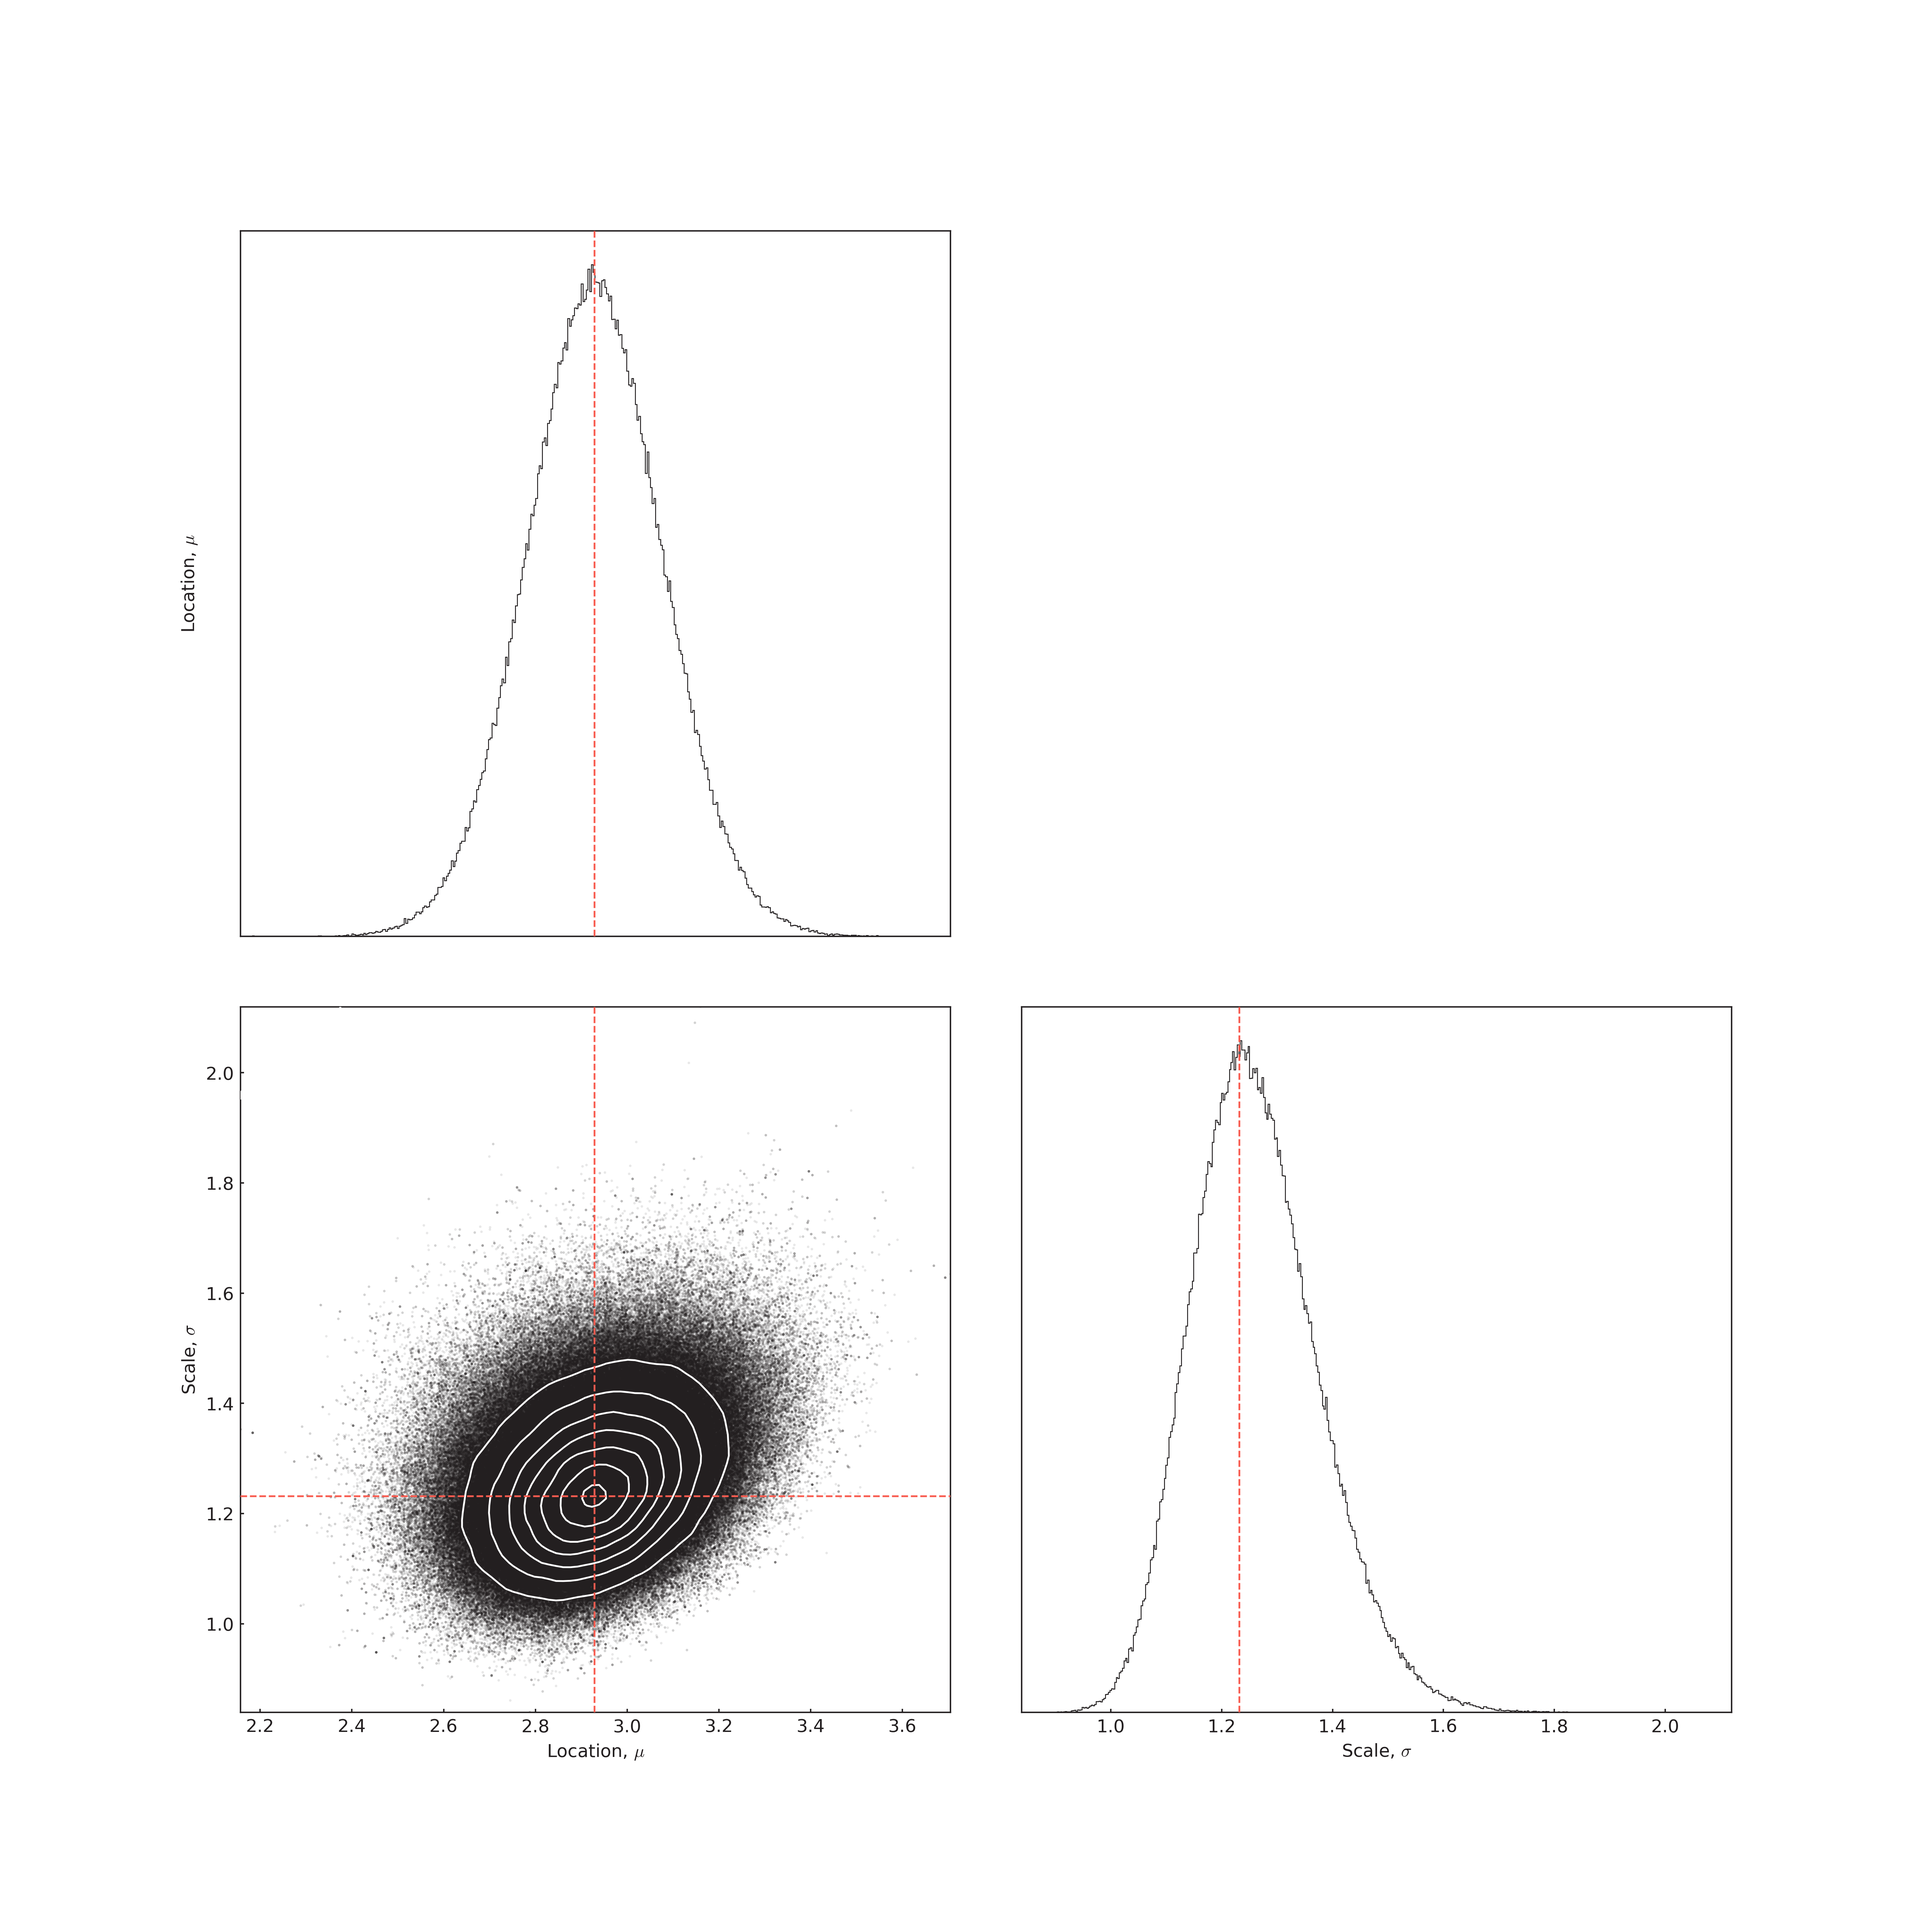
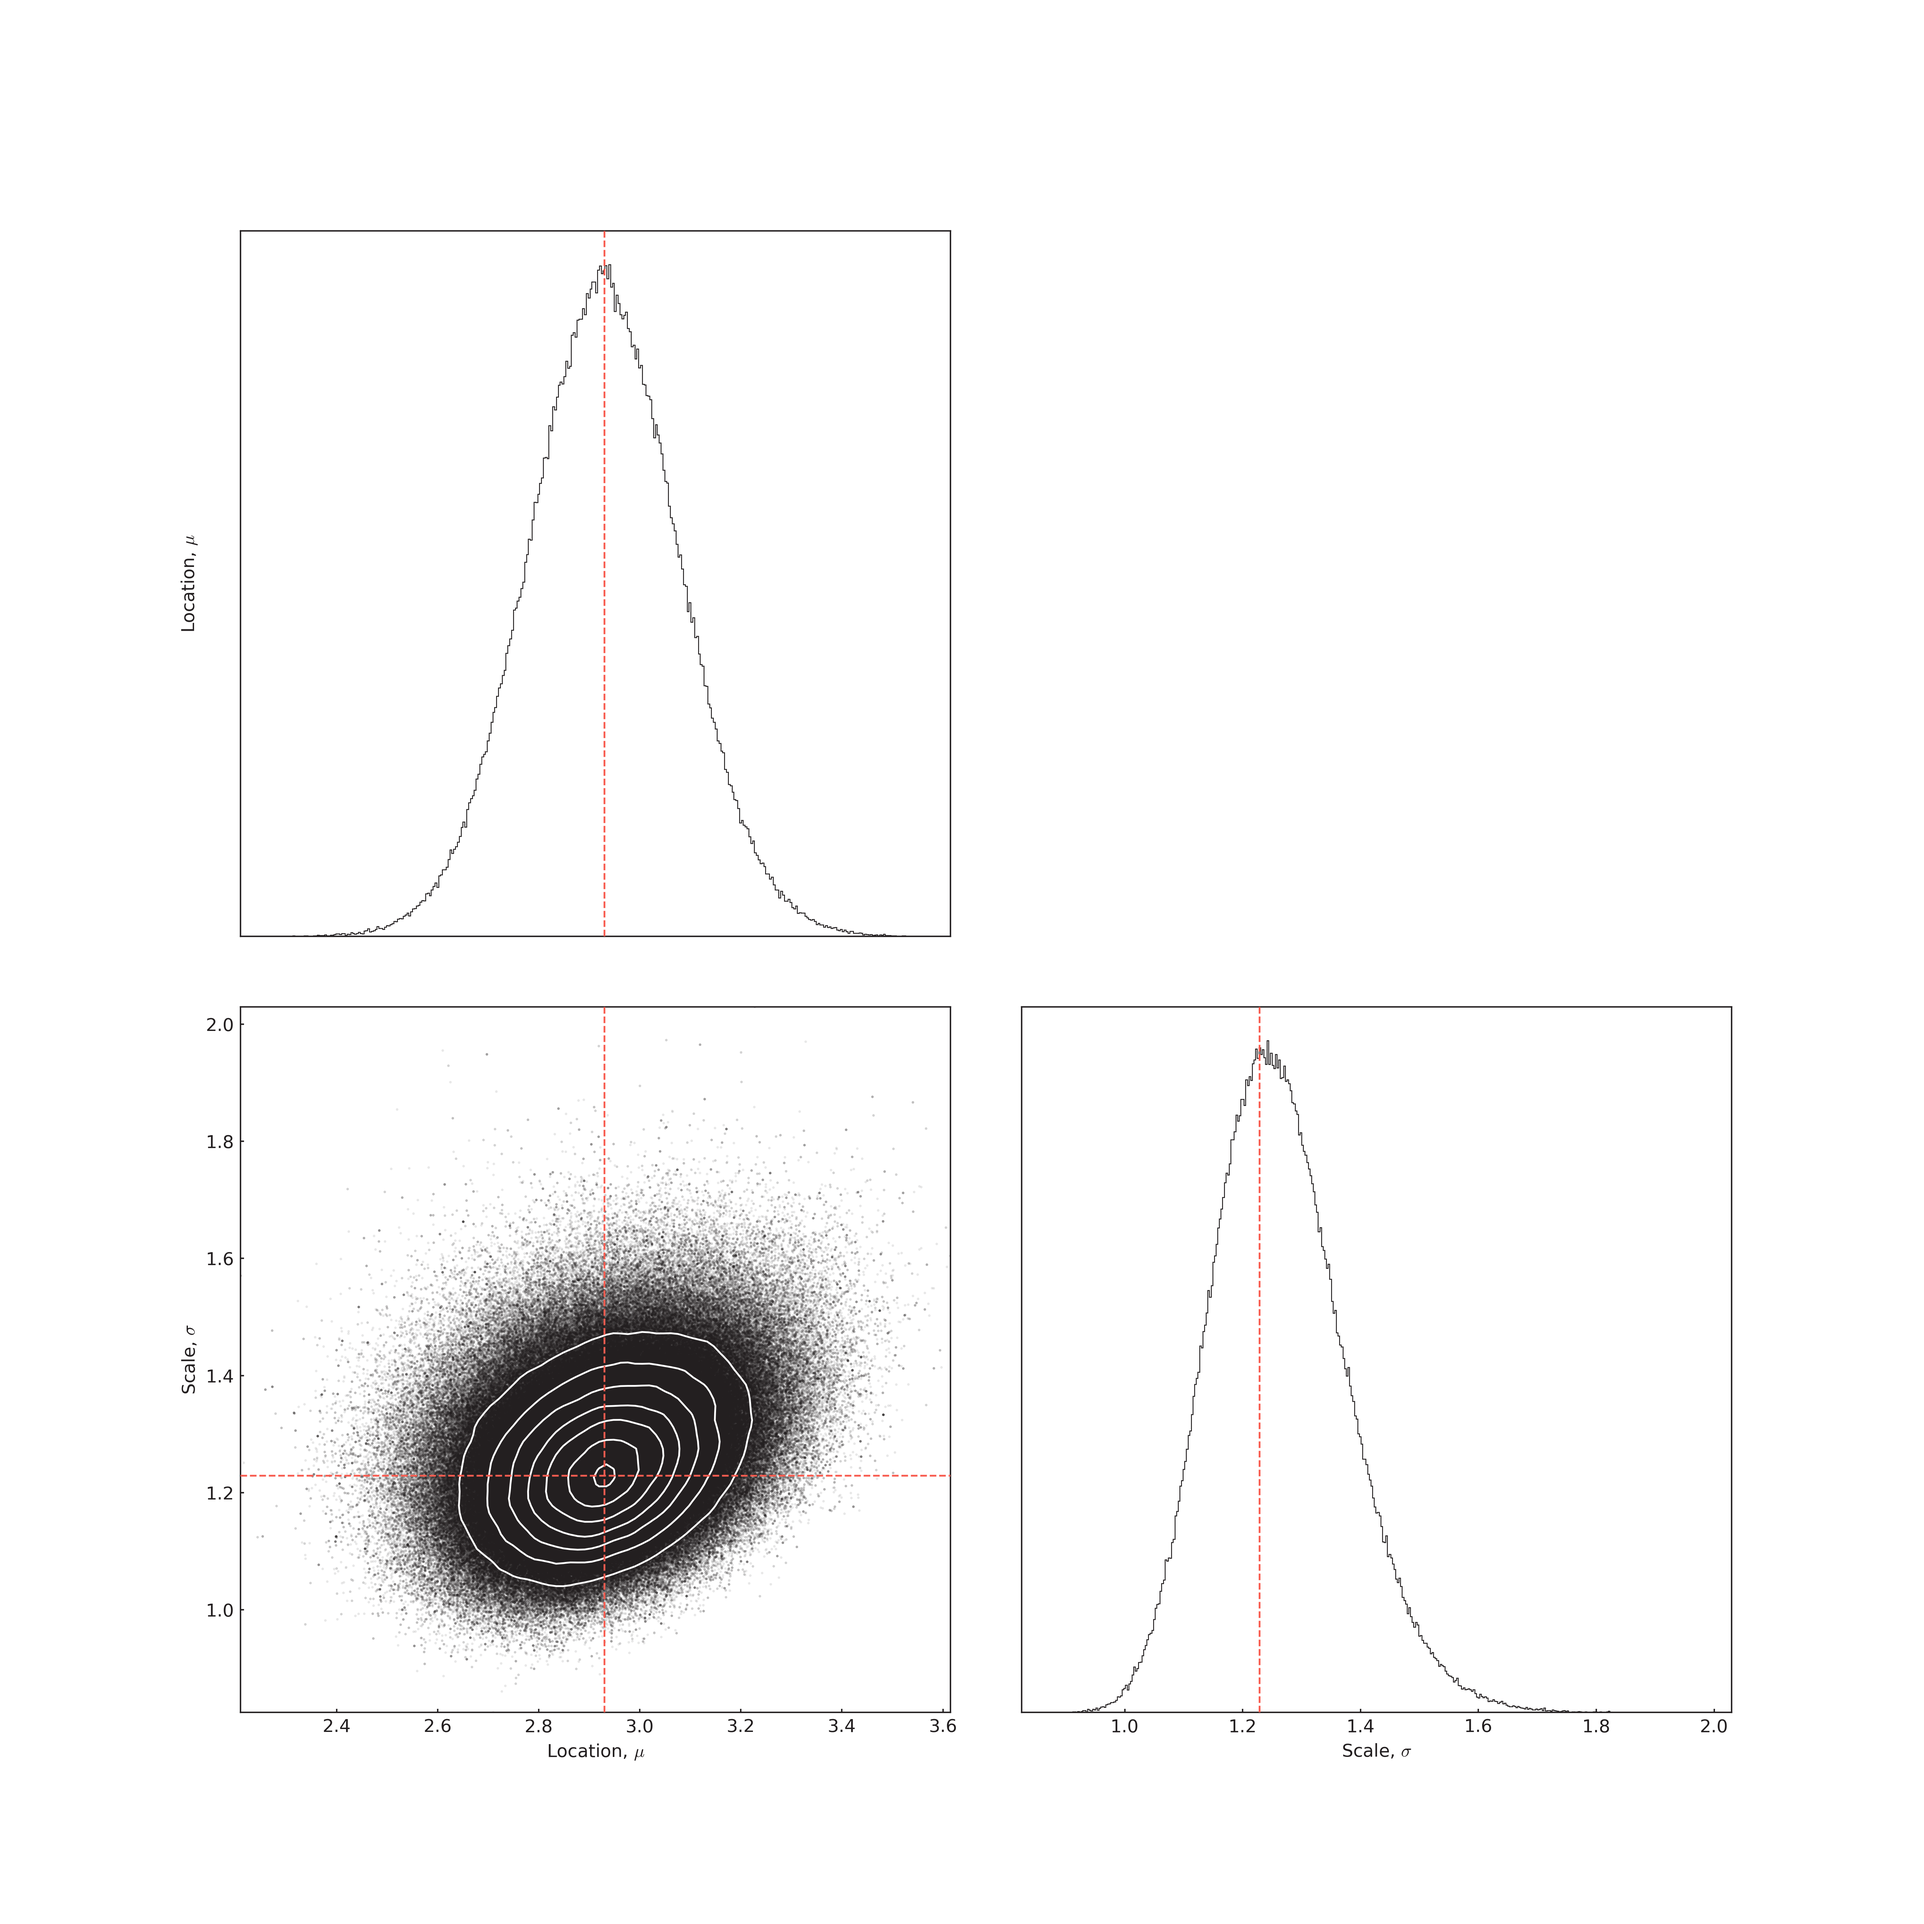
add license

Changed region(s): [[0.1558, 0.6233, 0.4675, 0.8727], [0.748, 0.8727, 0.7792, 0.9038], [0.561, 0.8727, 0.5922, 0.9038]]

diff --git a/README.md b/README.md
@@ -1,0 +1,108 @@
+# Supplementary Materials for "Towards Statistical Modeling of Chlorophyll-a Concentrations in Balikpapan Bay, Indonesia: Implications for Algal Bloom Detection"
+
+[![DOI](https://img.shields.io/badge/DOI-10.1088%2F2515--7620%2Fae4680-blue)](https://doi.org/10.1088/2515-7620/ae4680)
+[![License: MIT](https://img.shields.io/badge/License-MIT-yellow.svg)](https://opensource.org/licenses/MIT)
+[![No Maintenance Intended](https://unmaintained.tech/badge.svg)](https://unmaintained.tech/)
+[![Python 3.9+](https://img.shields.io/badge/python-3.9%2B-blue.svg)](https://www.python.org/downloads/)
+[![NumPy](https://img.shields.io/badge/numpy-%23013243.svg?logo=numpy&logoColor=white)](https://numpy.org/)
+[![Pandas](https://img.shields.io/badge/pandas-%23150458.svg?logo=pandas&logoColor=white)](https://pandas.pydata.org/)
+[![Matplotlib](https://img.shields.io/badge/matplotlib-%23ffffff.svg?logo=matplotlib&logoColor=black)](https://matplotlib.org/)
+[![SciPy](https://img.shields.io/badge/scipy-%230C55A5.svg?logo=scipy&logoColor=white)](https://scipy.org/)
+[![scikit-learn](https://img.shields.io/badge/scikit--learn-%23F7931E.svg?logo=scikit-learn&logoColor=white)](https://scikit-learn.org/)
+[![AutoGluon](https://img.shields.io/badge/AutoGluon-tabular-orange)](https://auto.gluon.ai/)
+[![PyGMT](https://img.shields.io/badge/PyGMT-mapping-green)](https://www.pygmt.org/)
+[![statsmodels](https://img.shields.io/badge/statsmodels-statistics-brightgreen)](https://www.statsmodels.org/)
+[![pyextremes](https://img.shields.io/badge/pyextremes-EVA-red)](https://georgebv.github.io/pyextremes/)
+[![emcee](https://img.shields.io/badge/emcee-MCMC-blueviolet)](https://emcee.readthedocs.io/)
+[![Seaborn](https://img.shields.io/badge/seaborn-visualization-9cf)](https://seaborn.pydata.org/)
+
+This repository contains the processed data and Python scripts accompanying the following peer-reviewed publication:
+
+> Anwar, I. P., Herho, S. H. S., Khadami, F., Putri, M. R., & Syahrial, S. C. (2026). Towards statistical modeling of chlorophyll-a concentrations in Balikpapan Bay, Indonesia: Implications for algal bloom detection. *Environmental Research Communications*. https://doi.org/10.1088/2515-7620/ae4680
+
+## Repository Structure
+
+```
+.
+├── data/
+│   └── data.csv                  # Daily multivariate oceanographic dataset (2019-2021)
+├── script/
+│   ├── study_area_map.py         # Study area map generation (Figure 1)
+│   ├── eda.py                    # Exploratory data analysis (Figures 2-5)
+│   ├── autogluon_ml.py           # AutoGluon ensemble regression (Tables 1-2)
+│   └── extreme_value_analysis.py # Block maxima extreme value analysis (Figures 6-7)
+├── LICENSE
+└── README.md
+```
+
+## Data
+
+The dataset comprises 1,096 daily observations from January 1, 2019 to December 31, 2021, with the following variables:
+
+| Variable | Description | Source |
+|---|---|---|
+| Chlorophyll-a | Ocean color reanalysis (mg/m3) | CMEMS OCEANCOLOUR_GLO_BGC_L4_MY_009_104 |
+| Temperature | Sea surface temperature | HAMSOM |
+| Salinity | Sea surface salinity | HAMSOM |
+| Nitrate | Surface nitrate concentration | CMEMS GLOBAL_ANALYSISFORECAST_BGC_001_028 |
+| Phosphate | Surface phosphate concentration | CMEMS GLOBAL_ANALYSISFORECAST_BGC_001_028 |
+| Silicate | Surface silicate concentration | CMEMS GLOBAL_ANALYSISFORECAST_BGC_001_028 |
+| Dissolved Oxygen | Surface dissolved oxygen | CMEMS GLOBAL_ANALYSISFORECAST_BGC_001_028 |
+| River Discharge | Total river discharge | GloFAS-ERA5 |
+| Solar Radiation | Daily accumulated solar radiation | ERA5 |
+| Rainfall | Daily precipitation | BMKG Sepinggan Station |
+
+## Scripts
+
+**`study_area_map.py`** -- Generates a PyGMT relief map of the Indonesian Maritime Continent with Balikpapan Bay (116.71 E, 0.97 S) indicated. Outputs `fig1.png`.
+
+**`eda.py`** -- Performs exploratory data analysis including time series visualization, monthly seasonality decomposition, probability distribution characterization with normality testing (Shapiro-Wilk, D'Agostino K2), stationarity testing (ADF, KPSS), and autocorrelation/partial autocorrelation analysis. Outputs `fig2.png` through `fig5.png`.
+
+**`autogluon_ml.py`** -- Trains an AutoGluon WeightedEnsemble_L2 model (ExtraTreesMSE: 0.462, CatBoost: 0.346, LightGBMXT: 0.192) for chlorophyll-a prediction using an 80:20 train-test split with random seed 42. Computes permutation feature importance with significance testing. Serializes the trained model via pickle for operational deployment.
+
+**`extreme_value_analysis.py`** -- Applies Block Maxima extreme value analysis with 14-day blocks, fitting a Generalized Extreme Value distribution via MCMC (emcee; 500 walkers, 2,500 samples per walker). Generates return period plots, diagnostic Q-Q/P-P plots, and MCMC trace diagnostics. Outputs `fig6a.png` through `fig6c.png` and `fig7.png`.
+
+## Requirements
+
+- Python >= 3.9
+- numpy
+- pandas
+- matplotlib
+- seaborn
+- scipy
+- statsmodels
+- scikit-learn
+- autogluon.tabular
+- pygmt
+- pyextremes
+- emcee
+
+Install dependencies:
+
+```bash
+pip install numpy pandas matplotlib seaborn scipy statsmodels scikit-learn autogluon pygmt pyextremes emcee
+```
+
+## Citation
+
+If you use this code or data, please cite:
+
+```bibtex
+@article{Anwar_2026,
+  author    = {Anwar, Iwan P. and Herho, Sandy H. S. and Khadami, Faruq and Putri, Mutiara R. and Syahrial, Sabitha C.},
+  title     = {Towards statistical modeling of chlorophyll-a concentrations in {Balikpapan Bay}, {Indonesia}: Implications for algal bloom detection},
+  journal   = {Environmental Research Communications},
+  year      = {2026},
+  publisher = {IOP Publishing},
+  doi       = {10.1088/2515-7620/ae4680},
+  url       = {https://doi.org/10.1088/2515-7620/ae4680}
+}
+```
+
+## License
+
+This project is licensed under the MIT License. See [LICENSE](LICENSE) for details.
+
+## Acknowledgments
+
+Financial support was provided by ITB's Research, Community Service and Innovation Program (PPMI-ITB) 2025 under grant No. FITB.PPMI-1-04-2025 and the Dean's Distinguished Fellowship at the University of California, Riverside 2023.
